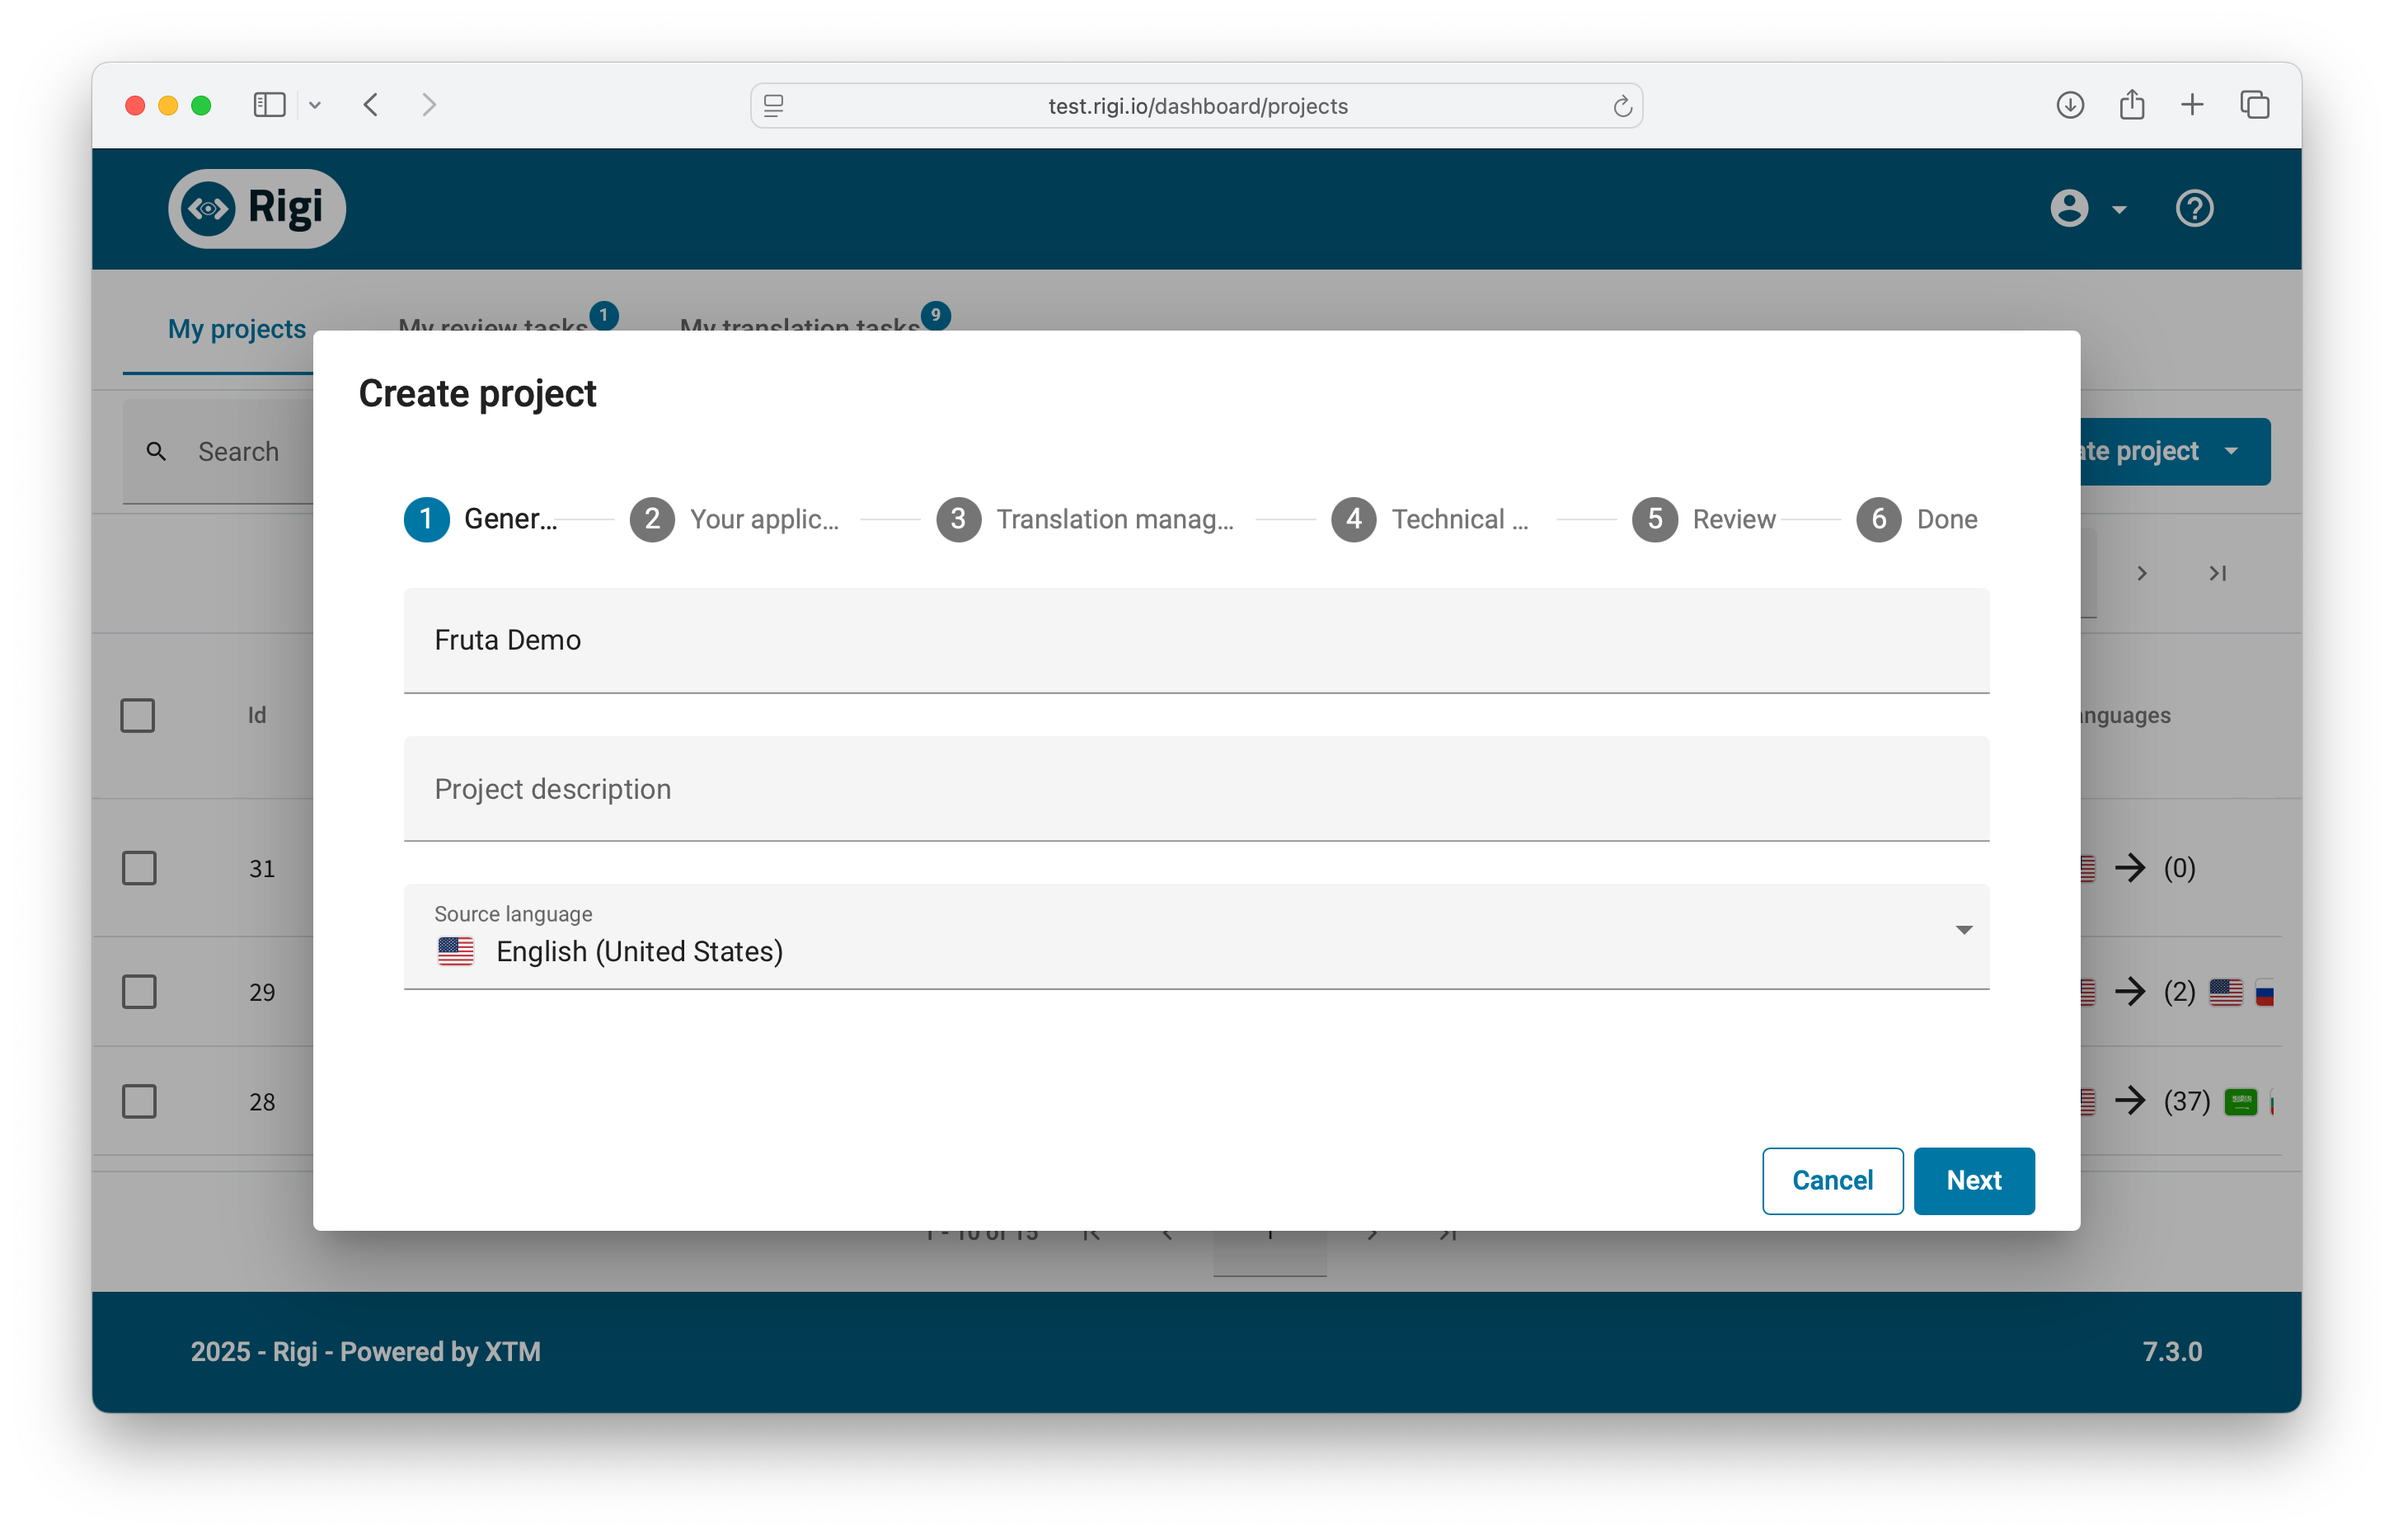
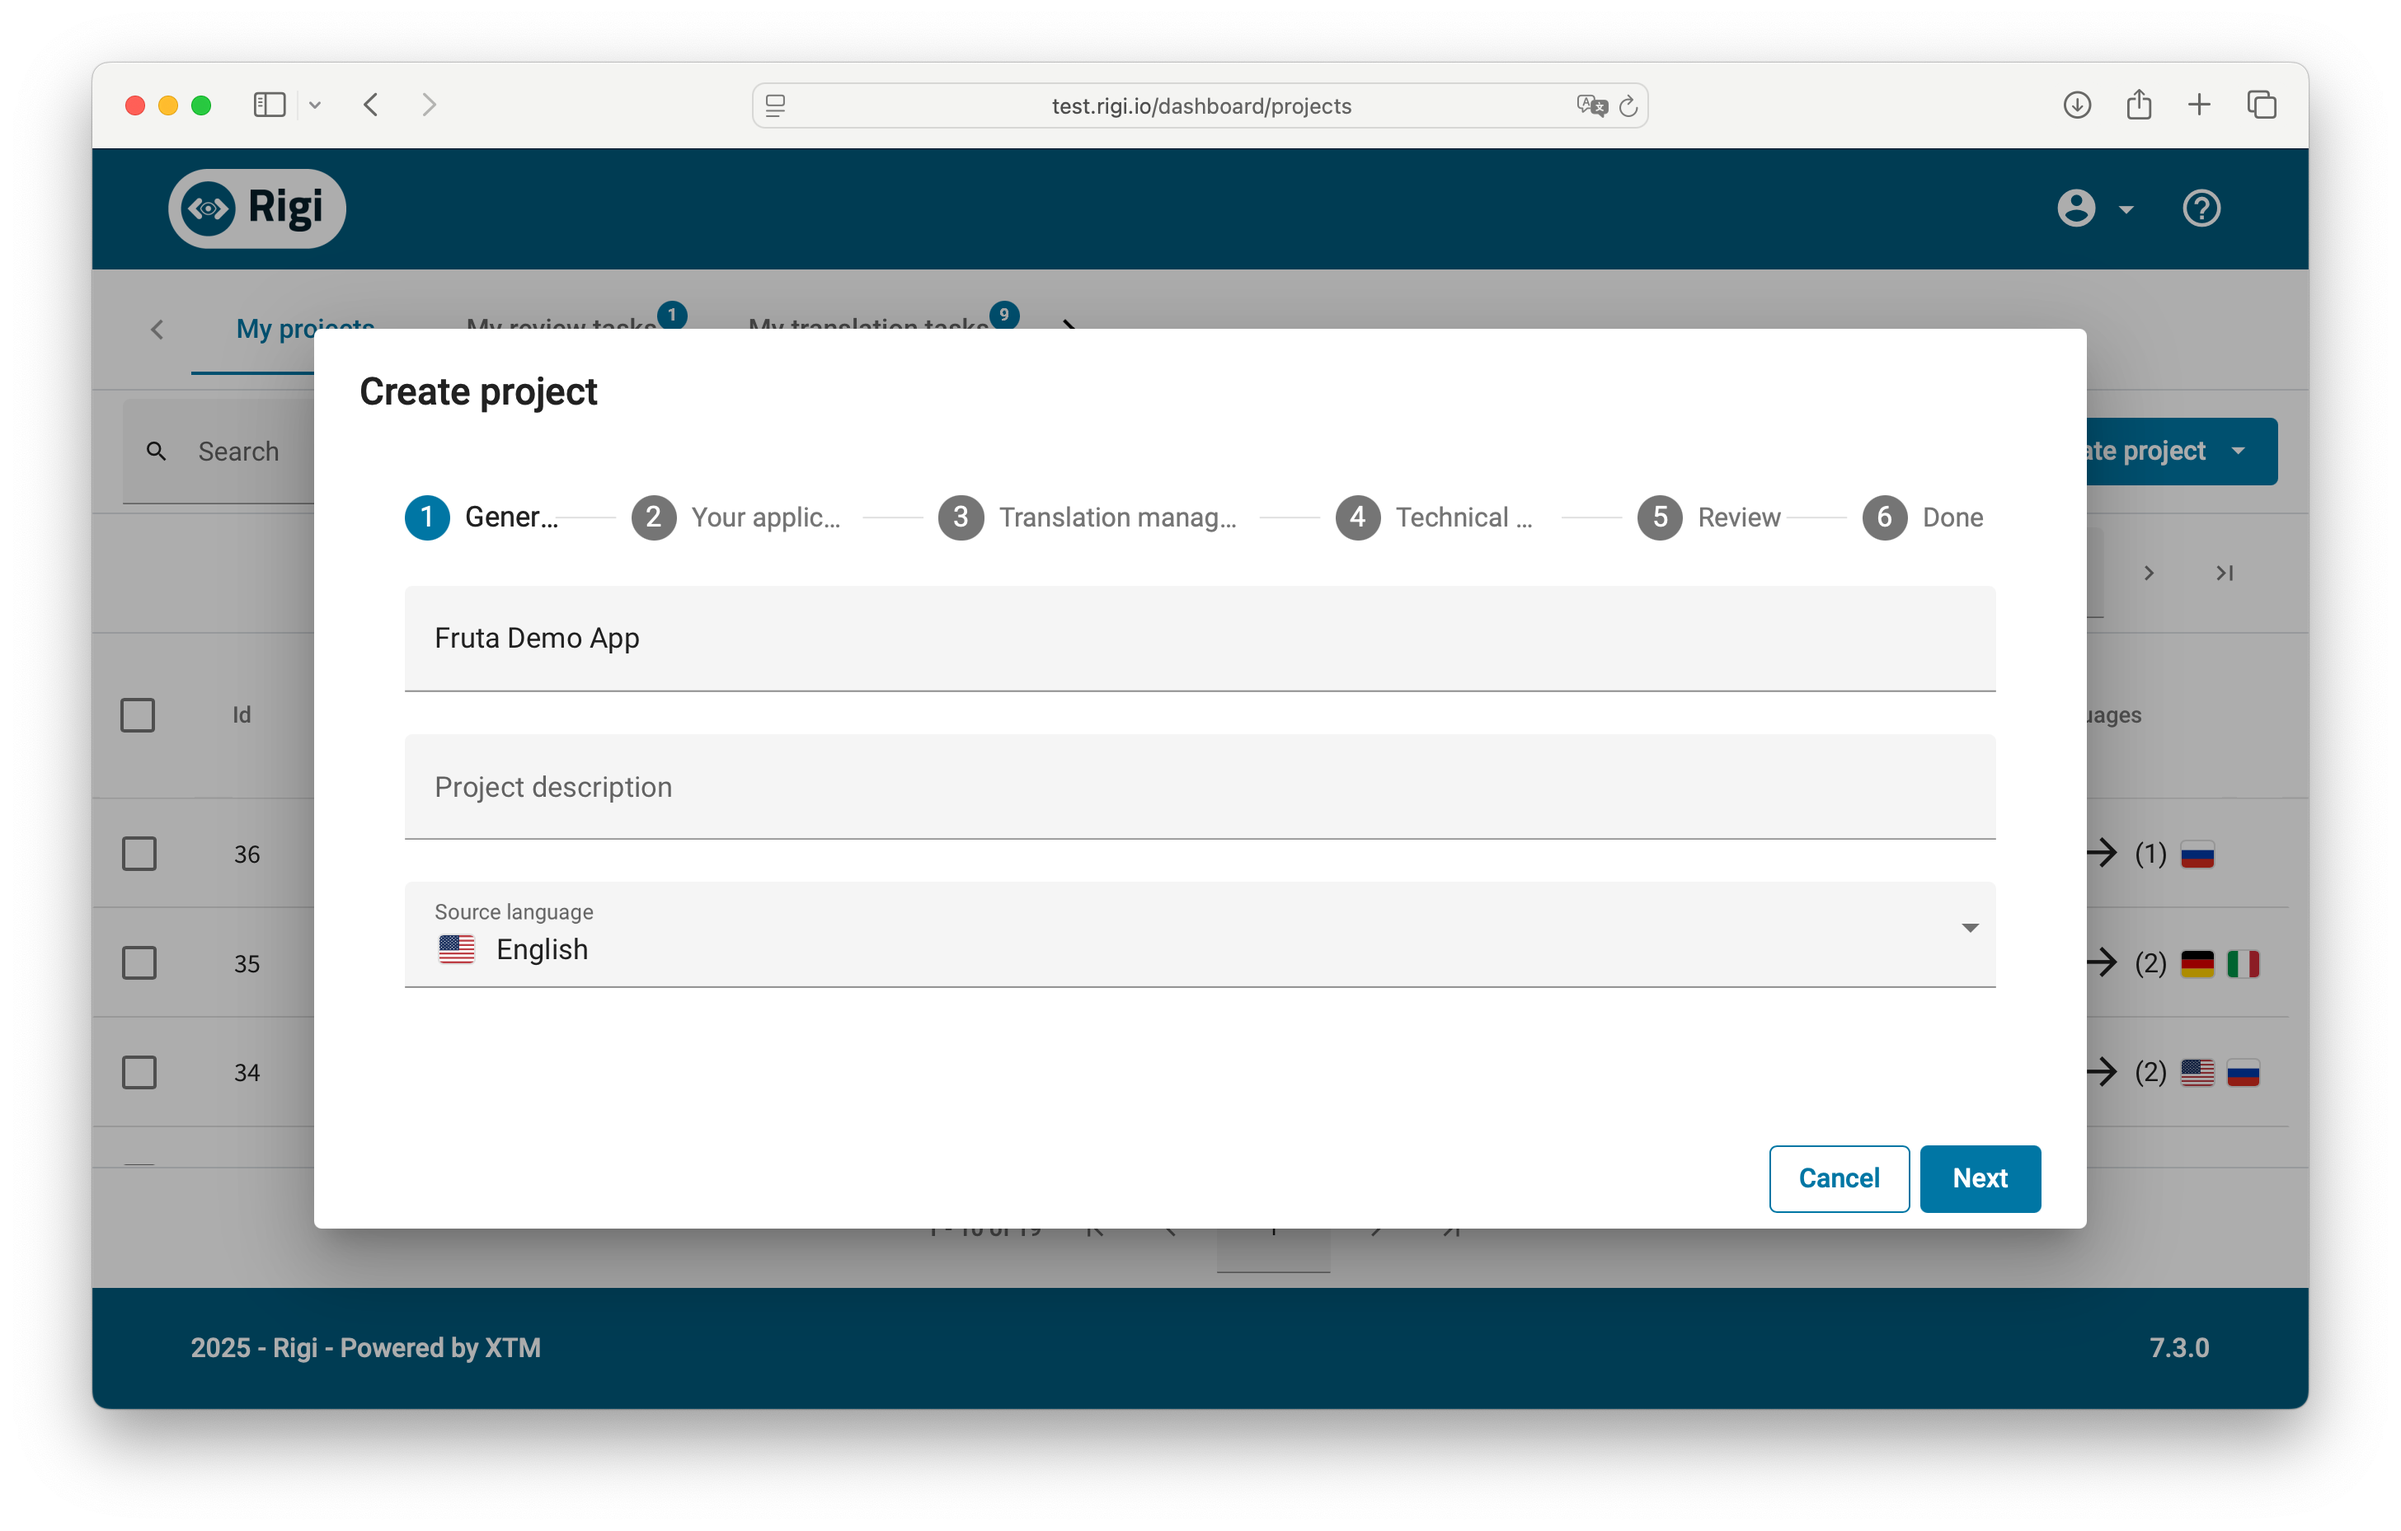
Updated documentation

diff --git a/README.md b/README.md
@@ -138,18 +138,18 @@ Set up your project on the Rigi platform:
 3. Enter project details:
    - Project name
    - Description
-   - Source language (e.g., English)
+   - Source language
+   - **Important!** The language **must exactly** match the language added in Xcode, e.g. English (and not English-US)
 
 ### Configure Pseudo Language
 
-Set the pseudo language in your Rigi project:
+Configure the translation manager in your Rigi project:
 
 ![Set Rigi Pseudo Language](docs/assets/12-set-rigi-pseudo.png)
 
-1. In the project creation wizard
-2. Select **Zulu** as the pseudo language
-3. This must match the language added in Xcode
-4. The system will use this for generating preview markers
+1. In the Translation manager step
+2. You **do not** have to select a Pseudo language
+3. **Important!** Make sure to **unselect** 'Manager files in workspace'
 
 ### Create API Access Token
 
